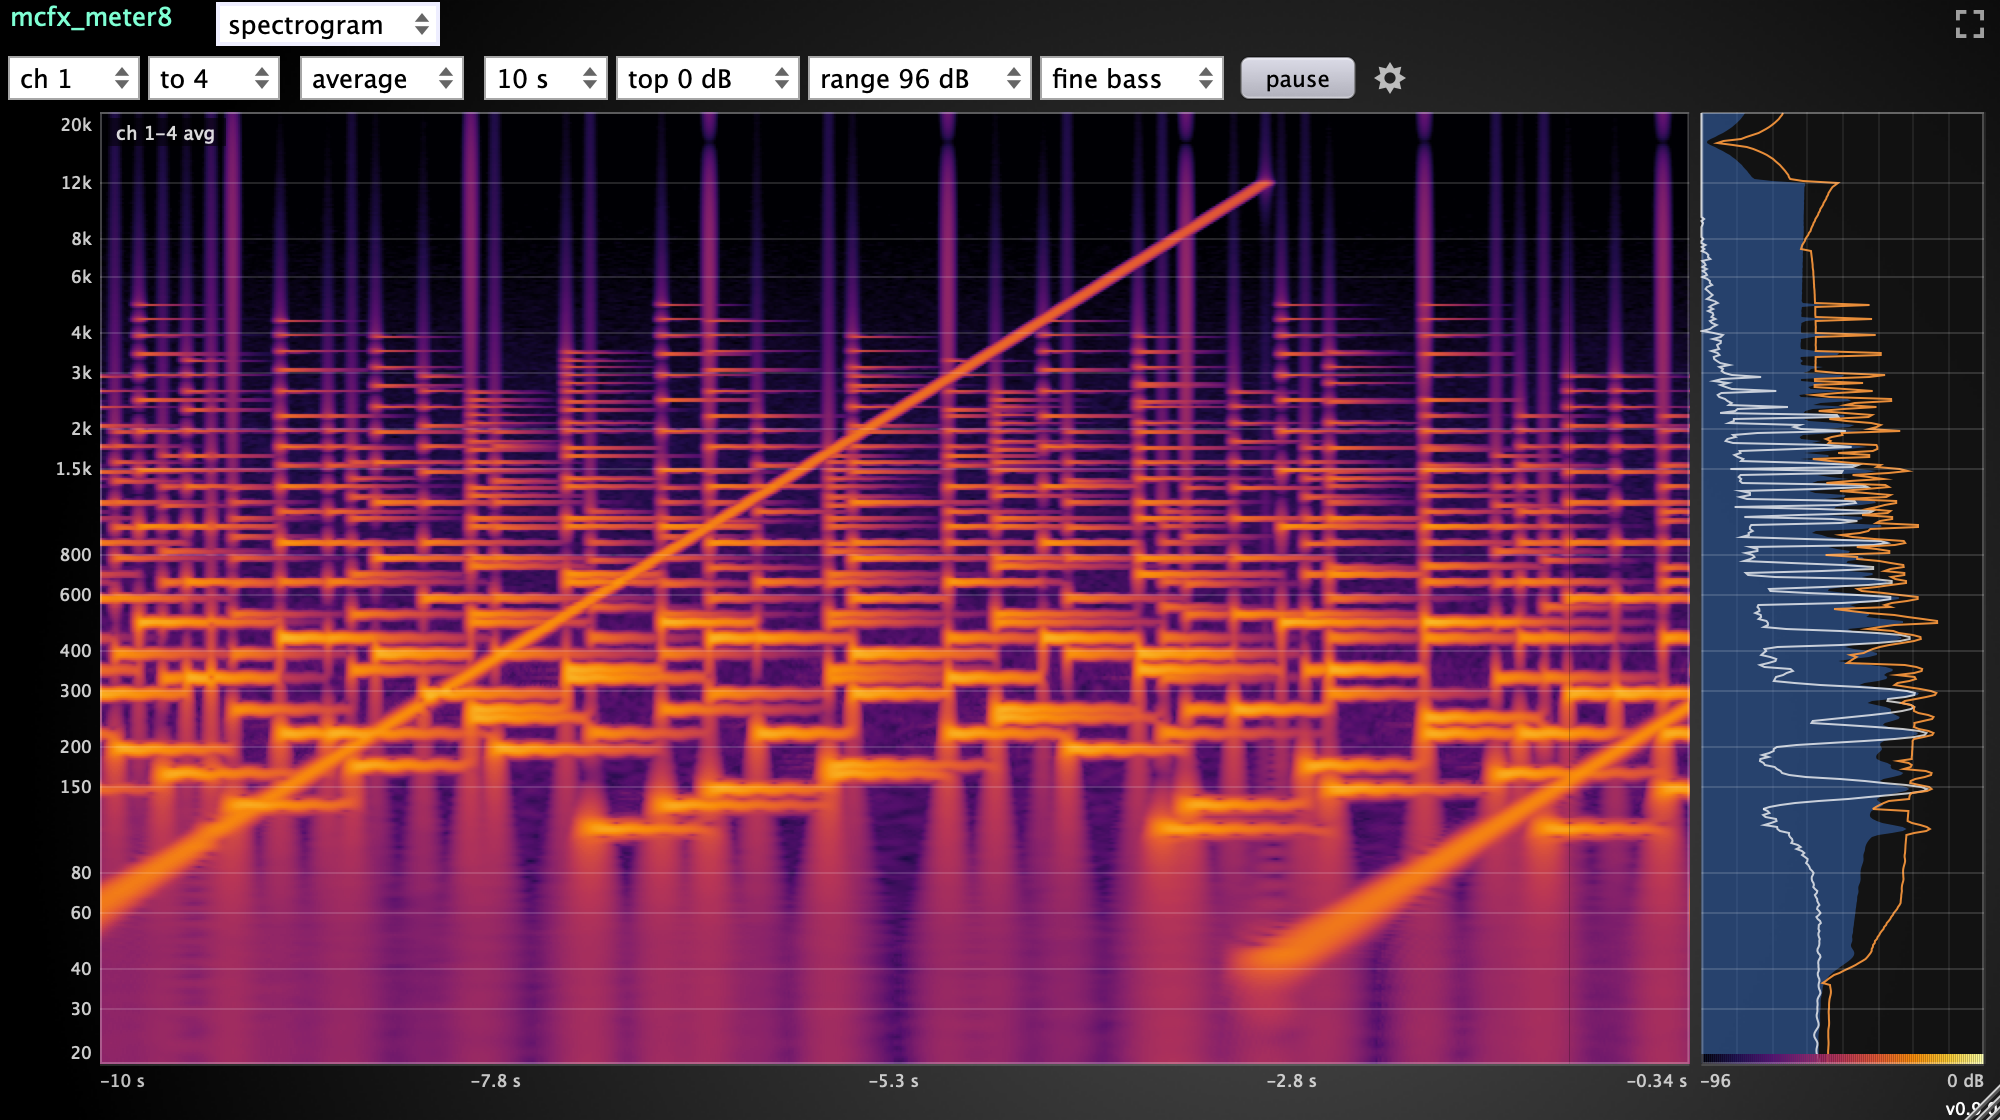
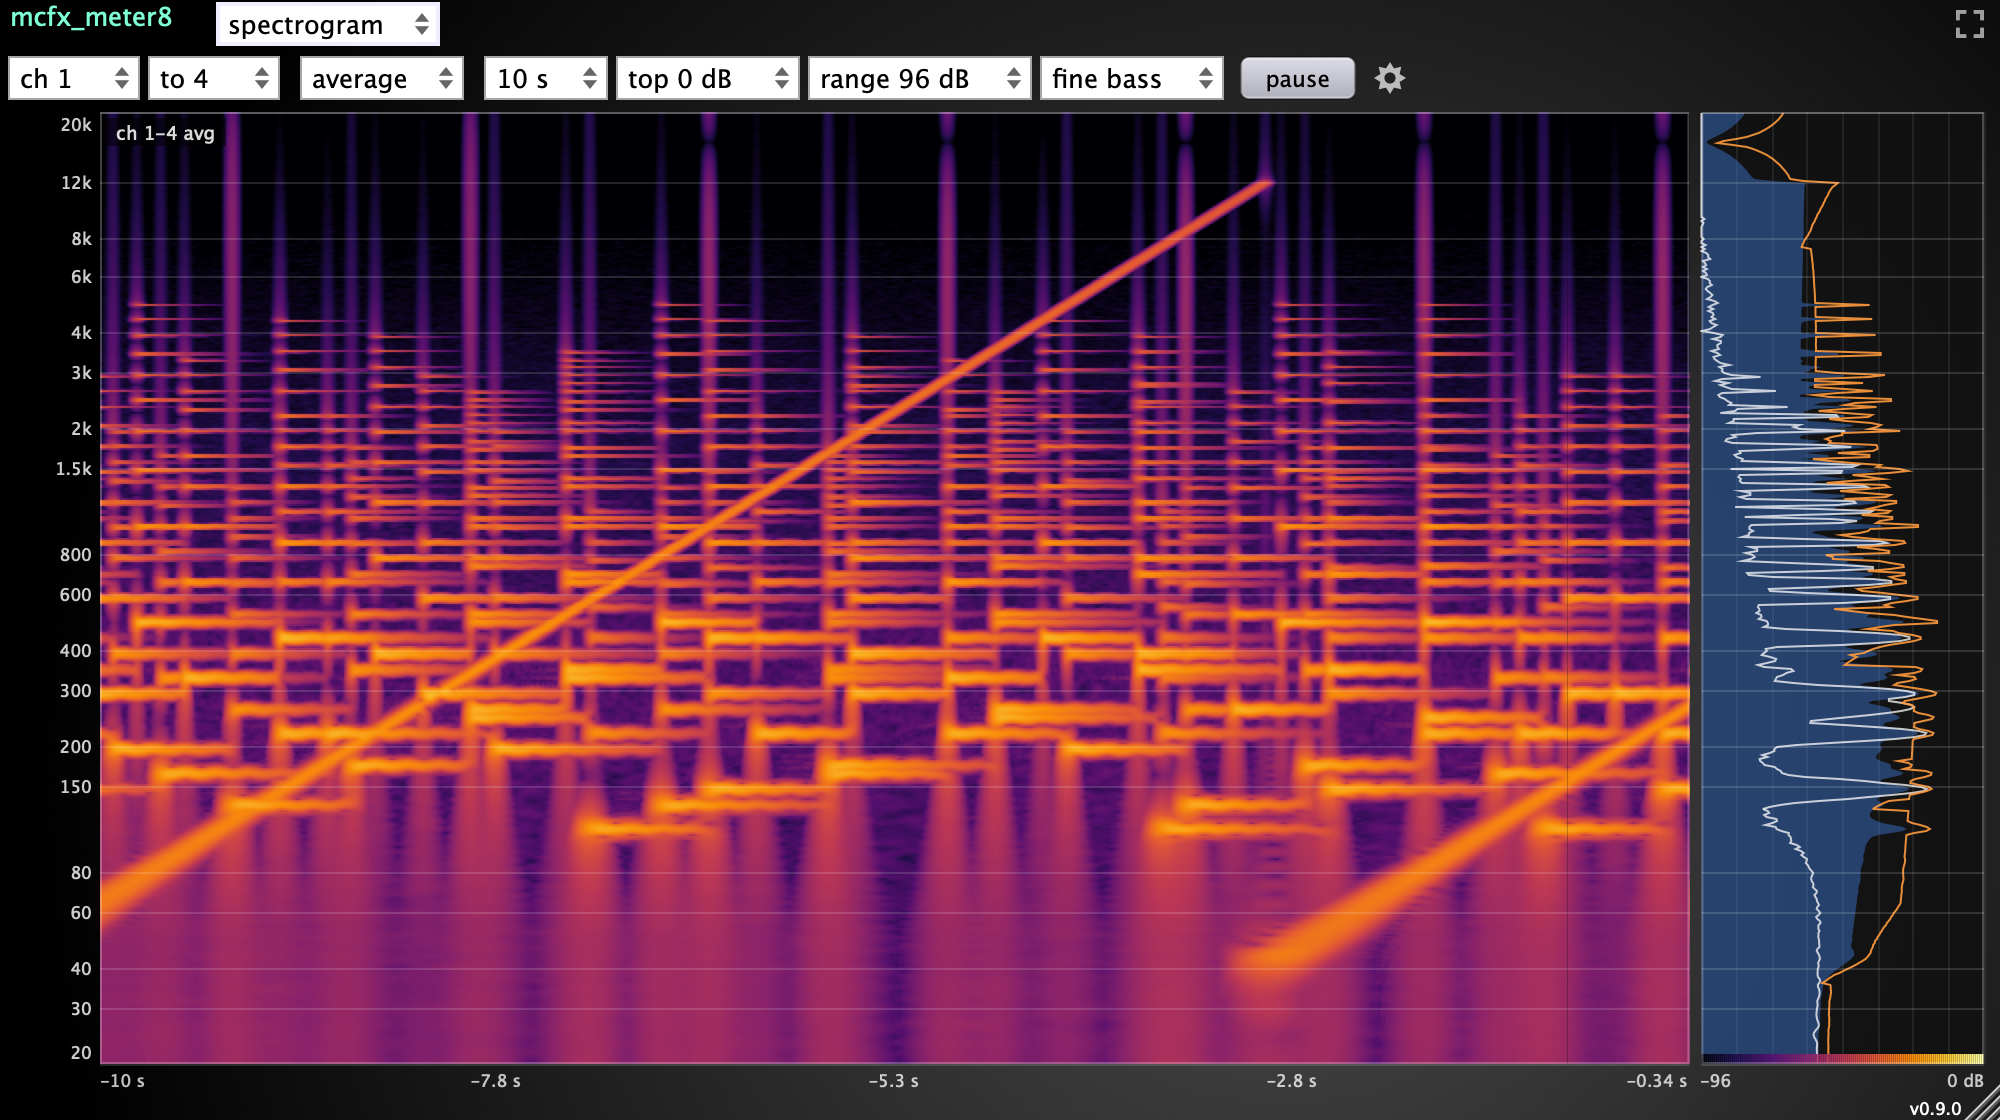
mcfx_meter: one number format on the scope's time axis; version label clear of the resize corner
- The time labels picked their decimals per value, so one axis read
  "2.000 ms" next to "14.00 ms". They now share one format, chosen from
  the spacing between labels.
- Draw the version text left of the 18 px resize corner, which covered
  its last characters in every view.
- Screenshots re-rendered with both.

Changed region(s): [[0.062, 0.0938, 0.124, 0.75], [0.961, 0.9688, 0.992, 1.0], [0.031, 0.1562, 0.062, 0.1875]]

diff --git a/mcfx_meter/Source/OscilloscopeComponent.cpp b/mcfx_meter/Source/OscilloscopeComponent.cpp
@@ -716,14 +716,22 @@ void OscilloscopeComponent::paint (Graphics& g)
     }
 
     // Time labels, relative to the trigger point (or to "now" when free-running).
+    // One number format for the whole axis, from the spacing between labels,
+    // so "2.0 ms" and "14.0 ms" don't come out as "2.000 ms" and "14.00 ms".
     g.setColour (Colours::white.withAlpha (0.75f));
+    const double labelStepMs = 1000.0 * std::abs (idxToTime (xToIdx (plot.getX() + plot.getWidth() * 2.f / (float) kTimeDivs))
+                                                  - idxToTime (xToIdx (plot.getX())));
+    const int axisDecimals = labelStepMs > 0.0
+                               ? jlimit (0, 3, (int) std::ceil (-std::log10 (labelStepMs)) + 1)
+                               : 3;
     for (int i = 0; i <= kTimeDivs; i += 2)
     {
         const float gx = plot.getX() + plot.getWidth() * (float) i / (float) kTimeDivs;
         const Justification j = i == 0 ? Justification::centredLeft
                               : (i == kTimeDivs ? Justification::centredRight : Justification::centred);
         const int lx = i == 0 ? (int) gx : (i == kTimeDivs ? (int) gx - S (80) : (int) gx - S (40));
-        g.drawText (formatTime (idxToTime (xToIdx (gx))), lx, (int) plot.getBottom() + 2, S (80), S (12), j);
+        g.drawText (String (1000.0 * idxToTime (xToIdx (gx)), axisDecimals) + " ms",
+                    lx, (int) plot.getBottom() + 2, S (80), S (12), j);
     }
 
     // Status line, top left inside the plot.

diff --git a/mcfx_meter/Source/PluginEditor.cpp b/mcfx_meter/Source/PluginEditor.cpp
@@ -284,8 +284,10 @@ void Ambix_meterAudioProcessorEditor::paint (Graphics& g)
     g.setFont (Font (FontOptions (10.00f, Font::plain)));
     String version_string;
     version_string << "v" << QUOTE(VERSION);
+    // Left of the resize corner (18 px, setResizable() puts it in every view),
+    // which otherwise draws over the last characters.
     g.drawText (version_string,
-                getWidth()-51, getHeight()-11, 50, 10,
+                getWidth()-51-18, getHeight()-11, 50, 10,
                 Justification::bottomRight, true);
 
     //[UserPaint] Add your own custom painting code here..
